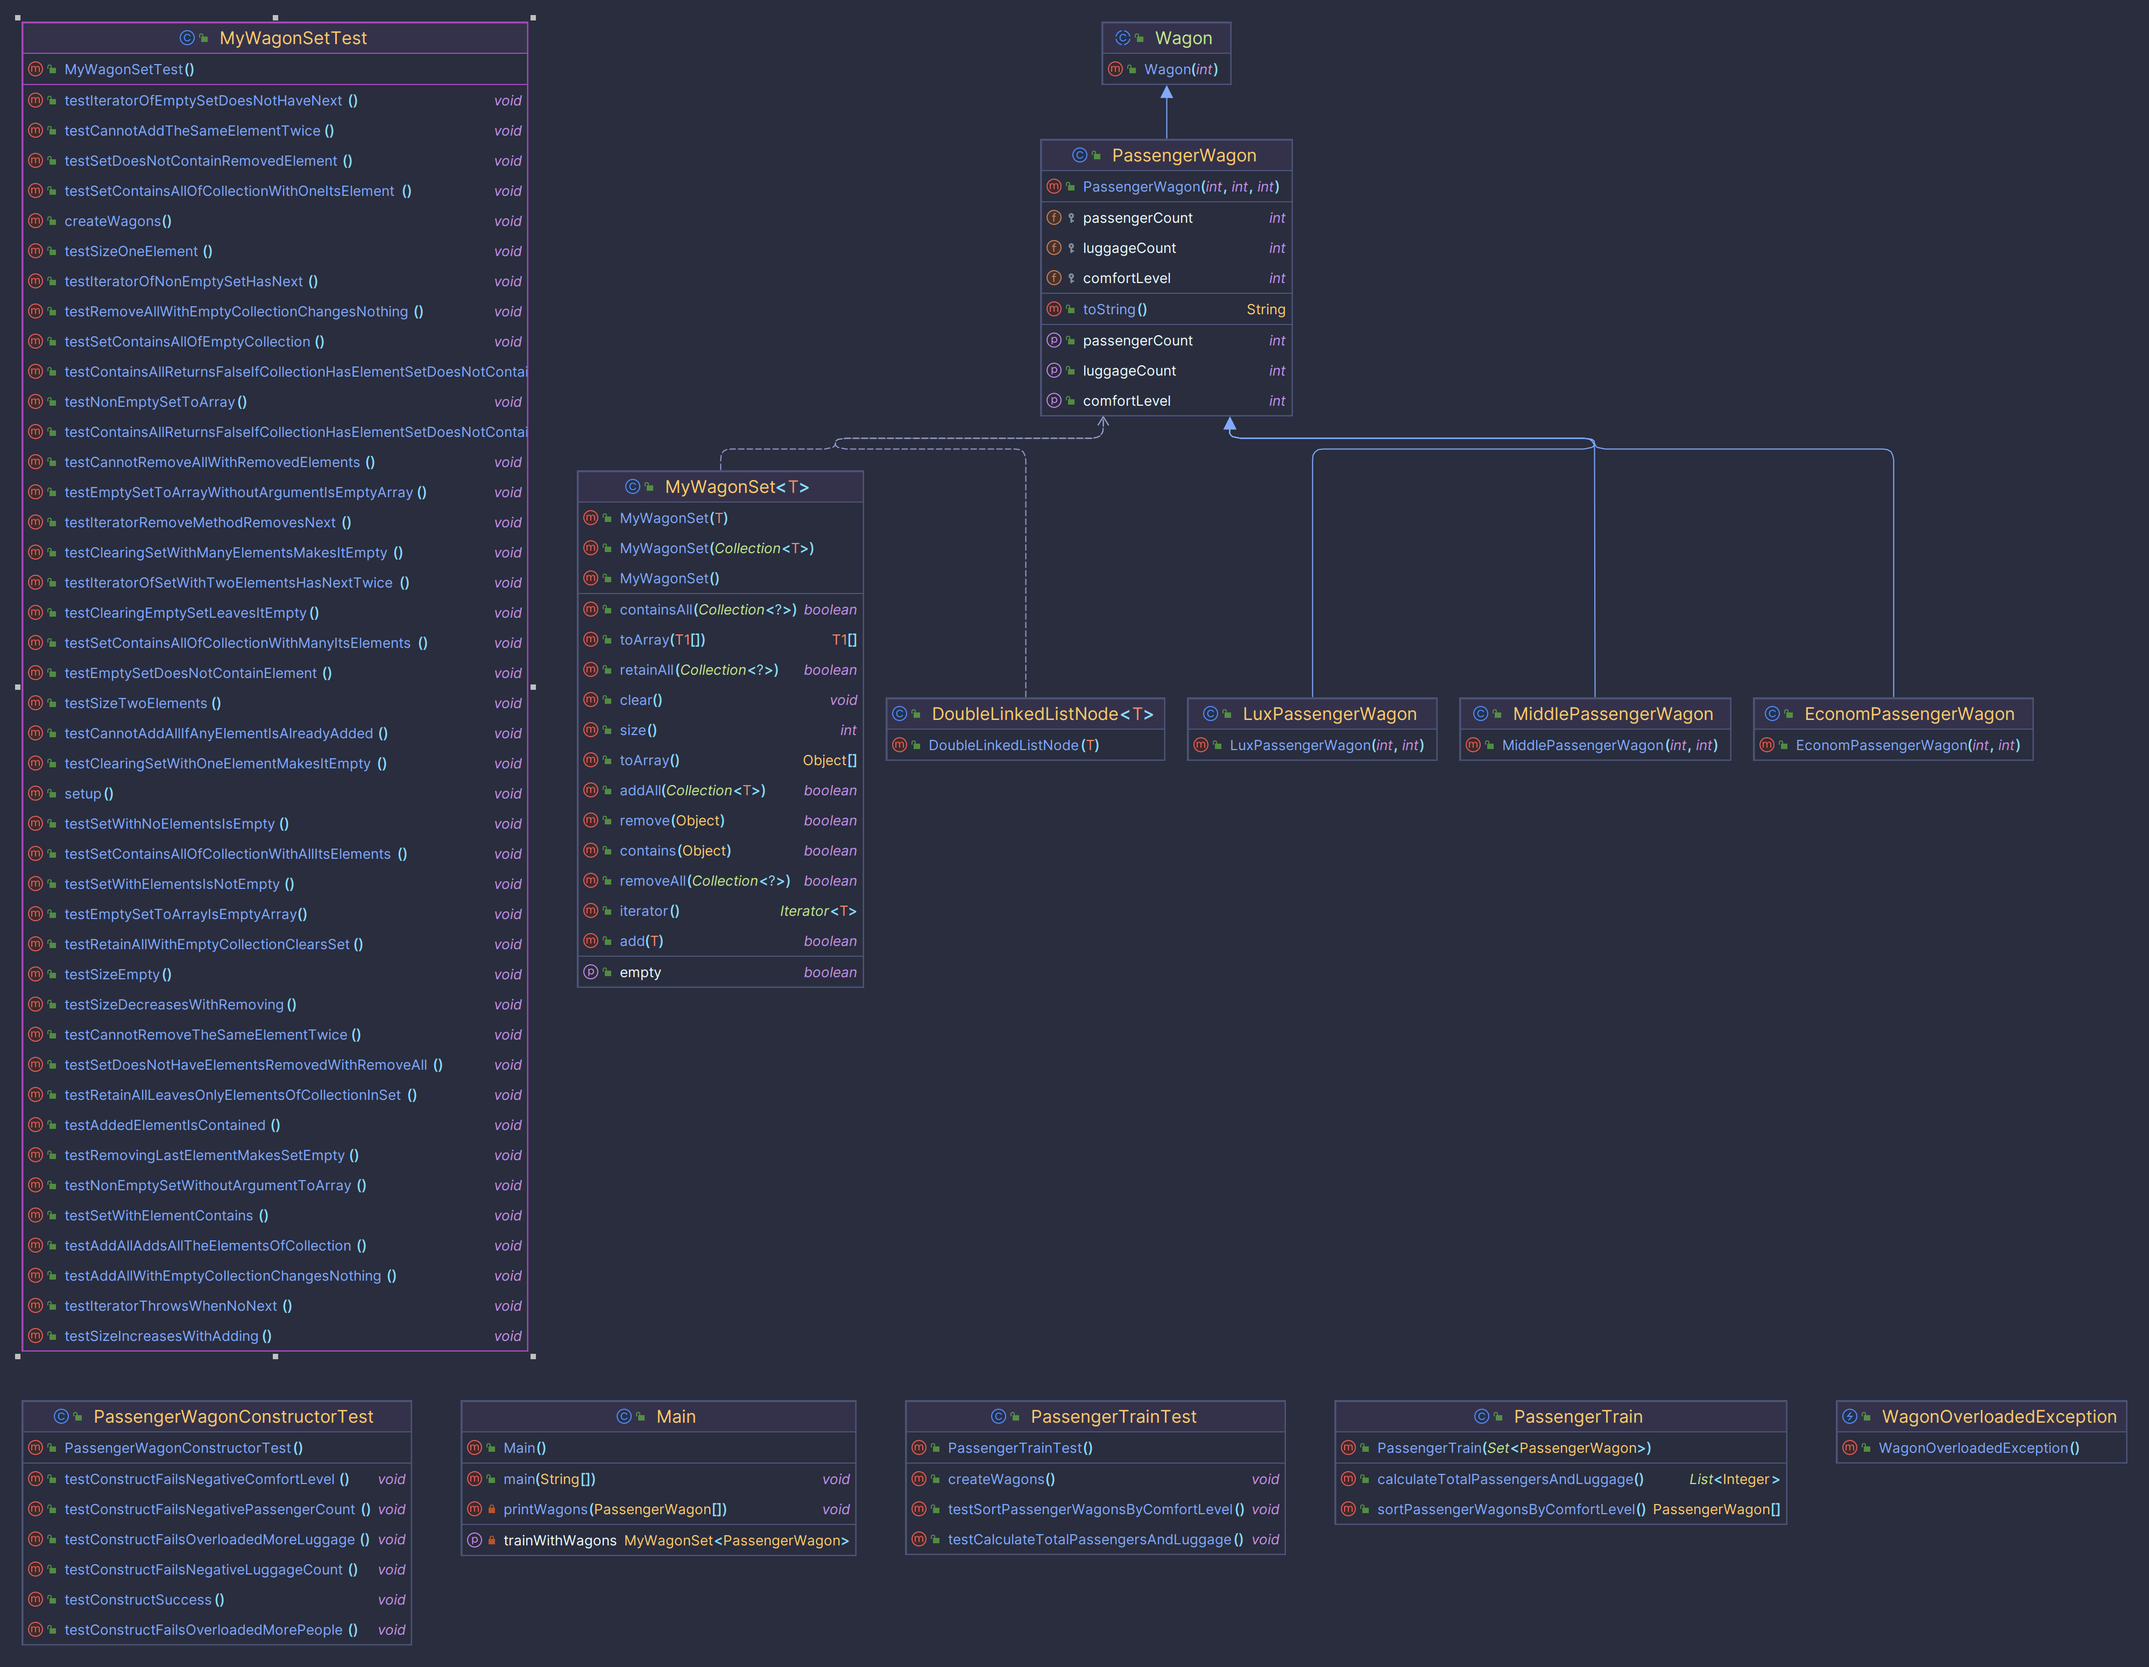
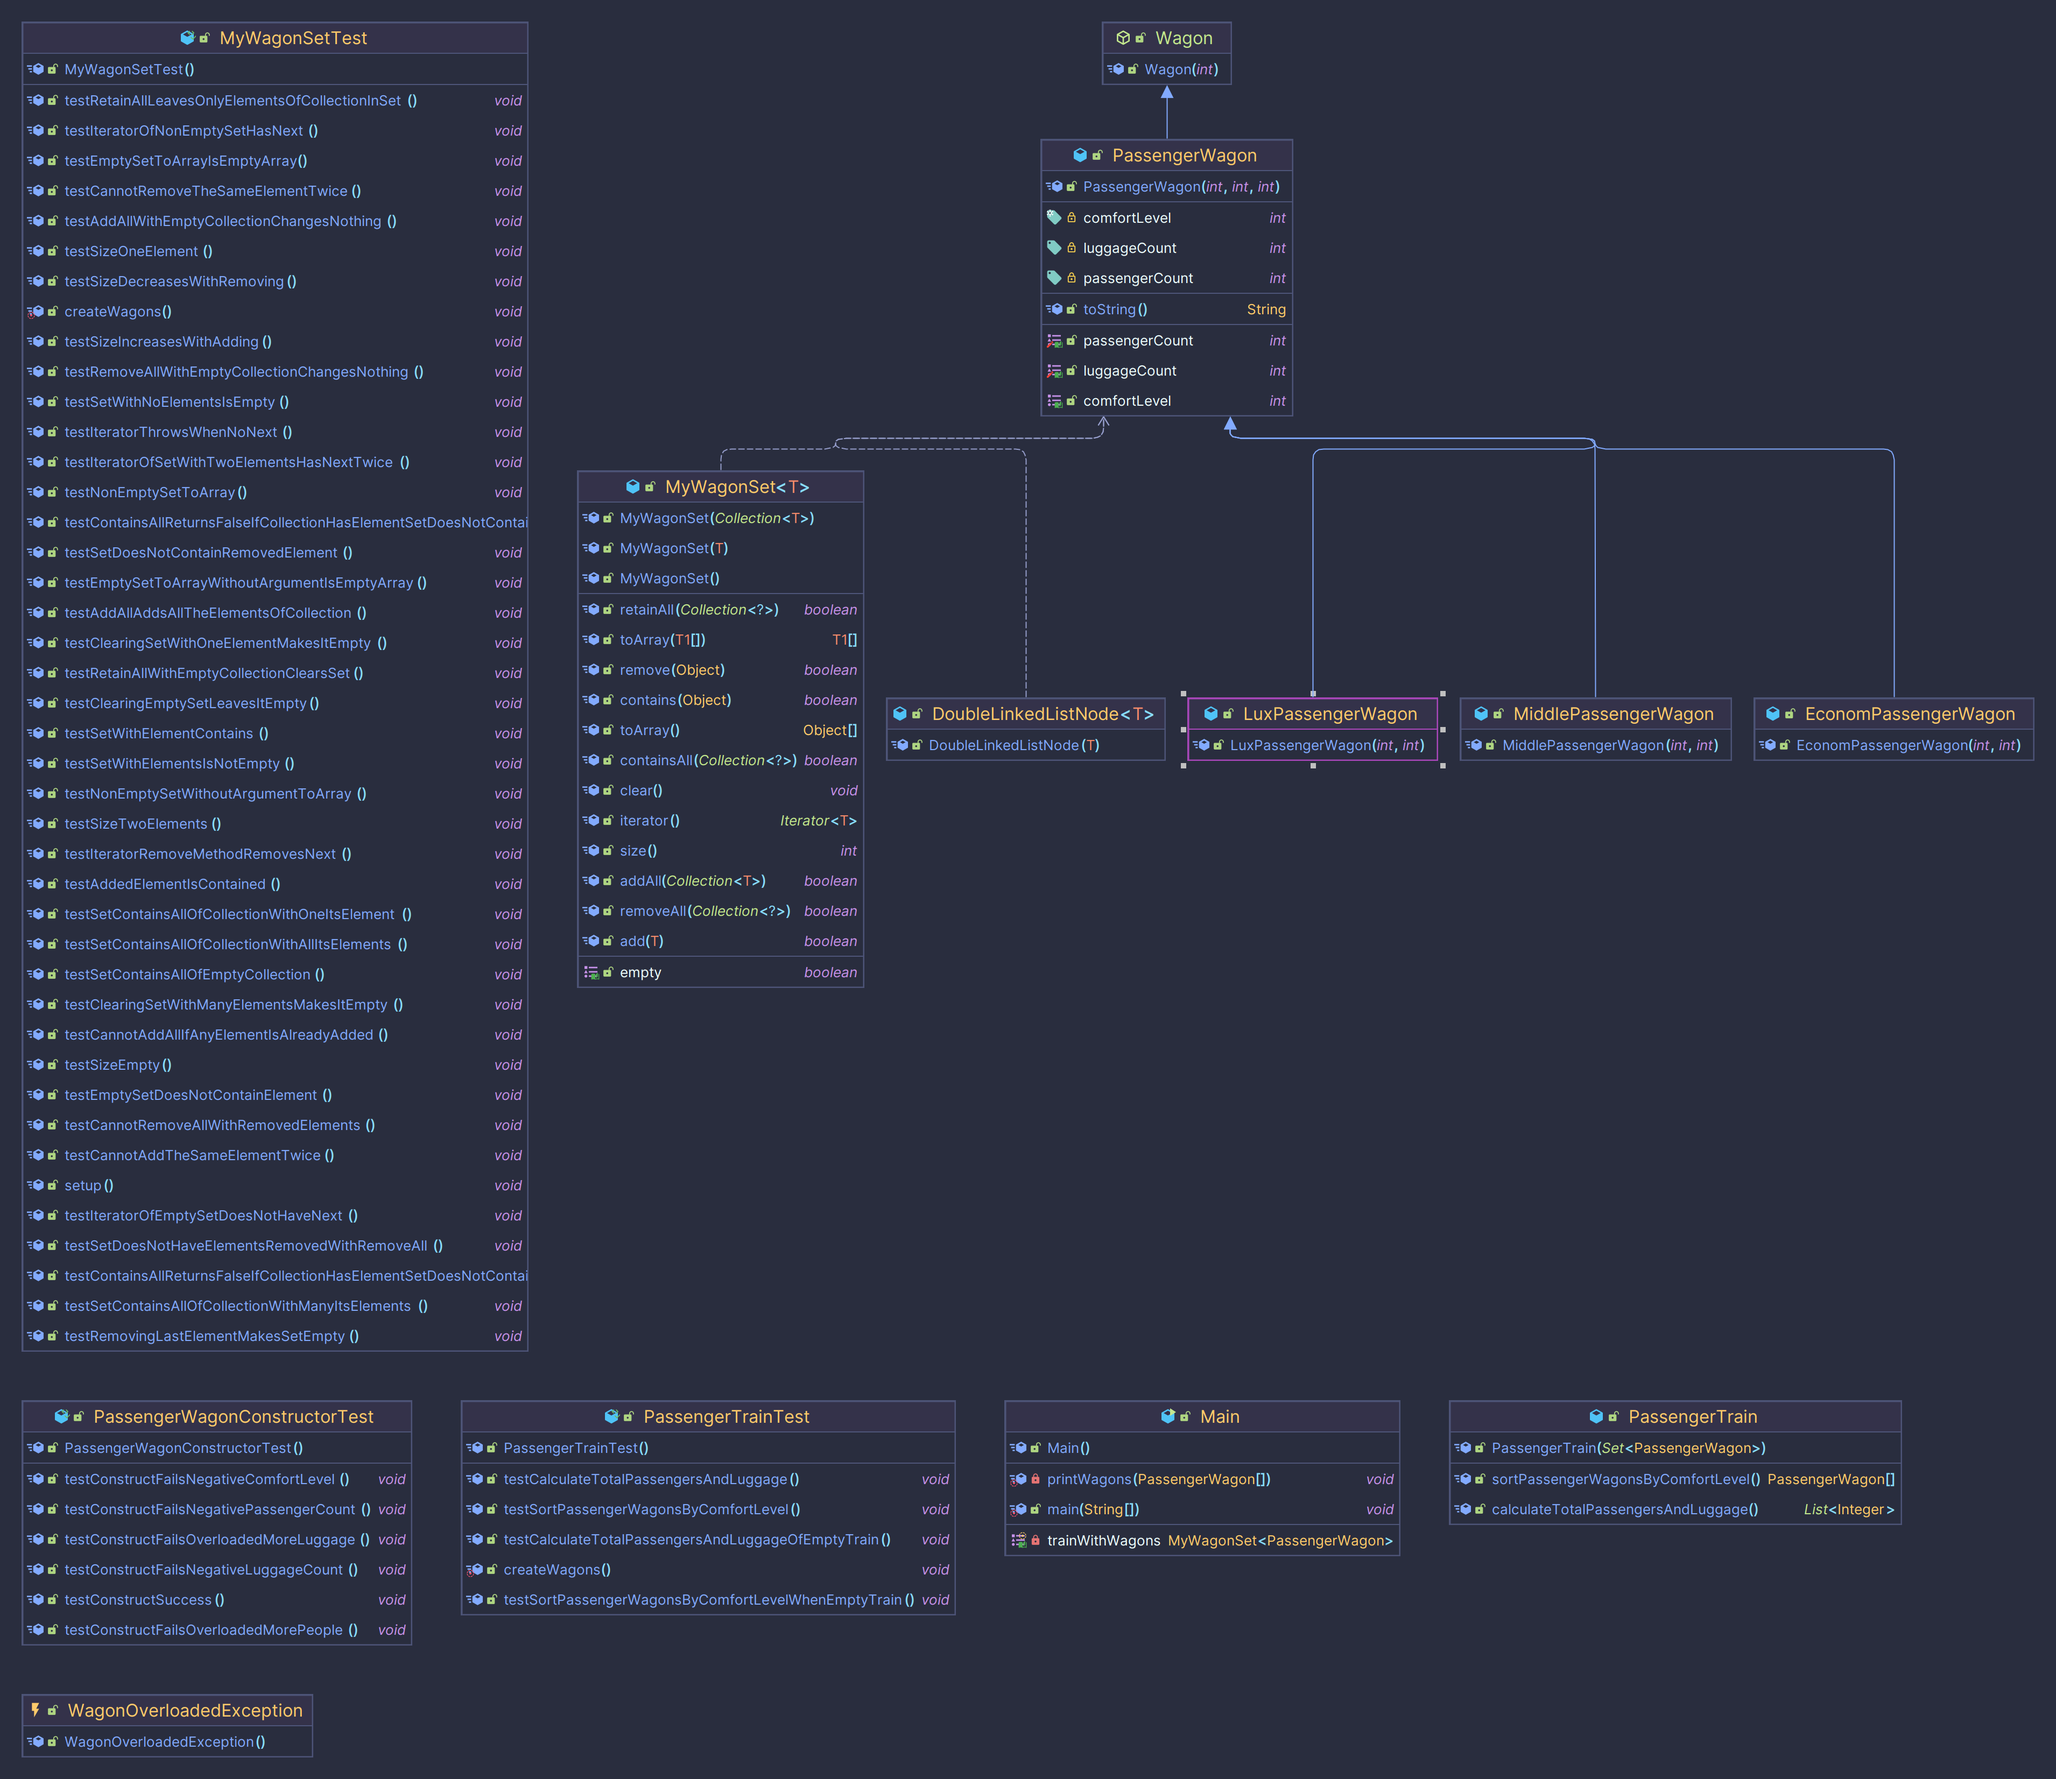
lab 8 added tests
Added tests for the PassengerTrain which check the case when the train has no wagons.

diff --git a/lab6/src/test/java/com/nikitasutulov/lab8/PassengerTrainTest.java b/lab6/src/test/java/com/nikitasutulov/lab8/PassengerTrainTest.java
@@ -49,6 +49,14 @@ public class PassengerTrainTest {
         assertEquals(wagon1.getLuggageCount() + wagon2.getLuggageCount(), result.get(1));
     }
 
+    @Test
+    public void testCalculateTotalPassengersAndLuggageOfEmptyTrain() {
+        PassengerTrain train = new PassengerTrain(new MyWagonSet<>());
+        List<Integer> result = train.calculateTotalPassengersAndLuggage();
+        assertEquals(0, result.get(0));
+        assertEquals(0, result.get(1));
+    }
+
     /**
      * Tests the sortPassengerWagonsByComfortLevel() method of the PassengerTrain class.
      */
@@ -62,5 +70,12 @@ public class PassengerTrainTest {
         assertEquals(1, sortedWagons[0].getComfortLevel());
         assertEquals(2, sortedWagons[1].getComfortLevel());
         assertEquals(3, sortedWagons[2].getComfortLevel());
+    }
+
+    @Test
+    public void testSortPassengerWagonsByComfortLevelWhenEmptyTrain() {
+        PassengerTrain train = new PassengerTrain(new MyWagonSet<>());
+        PassengerWagon[] result = train.sortPassengerWagonsByComfortLevel();
+        assertEquals(0, result.length);
     }
 }
